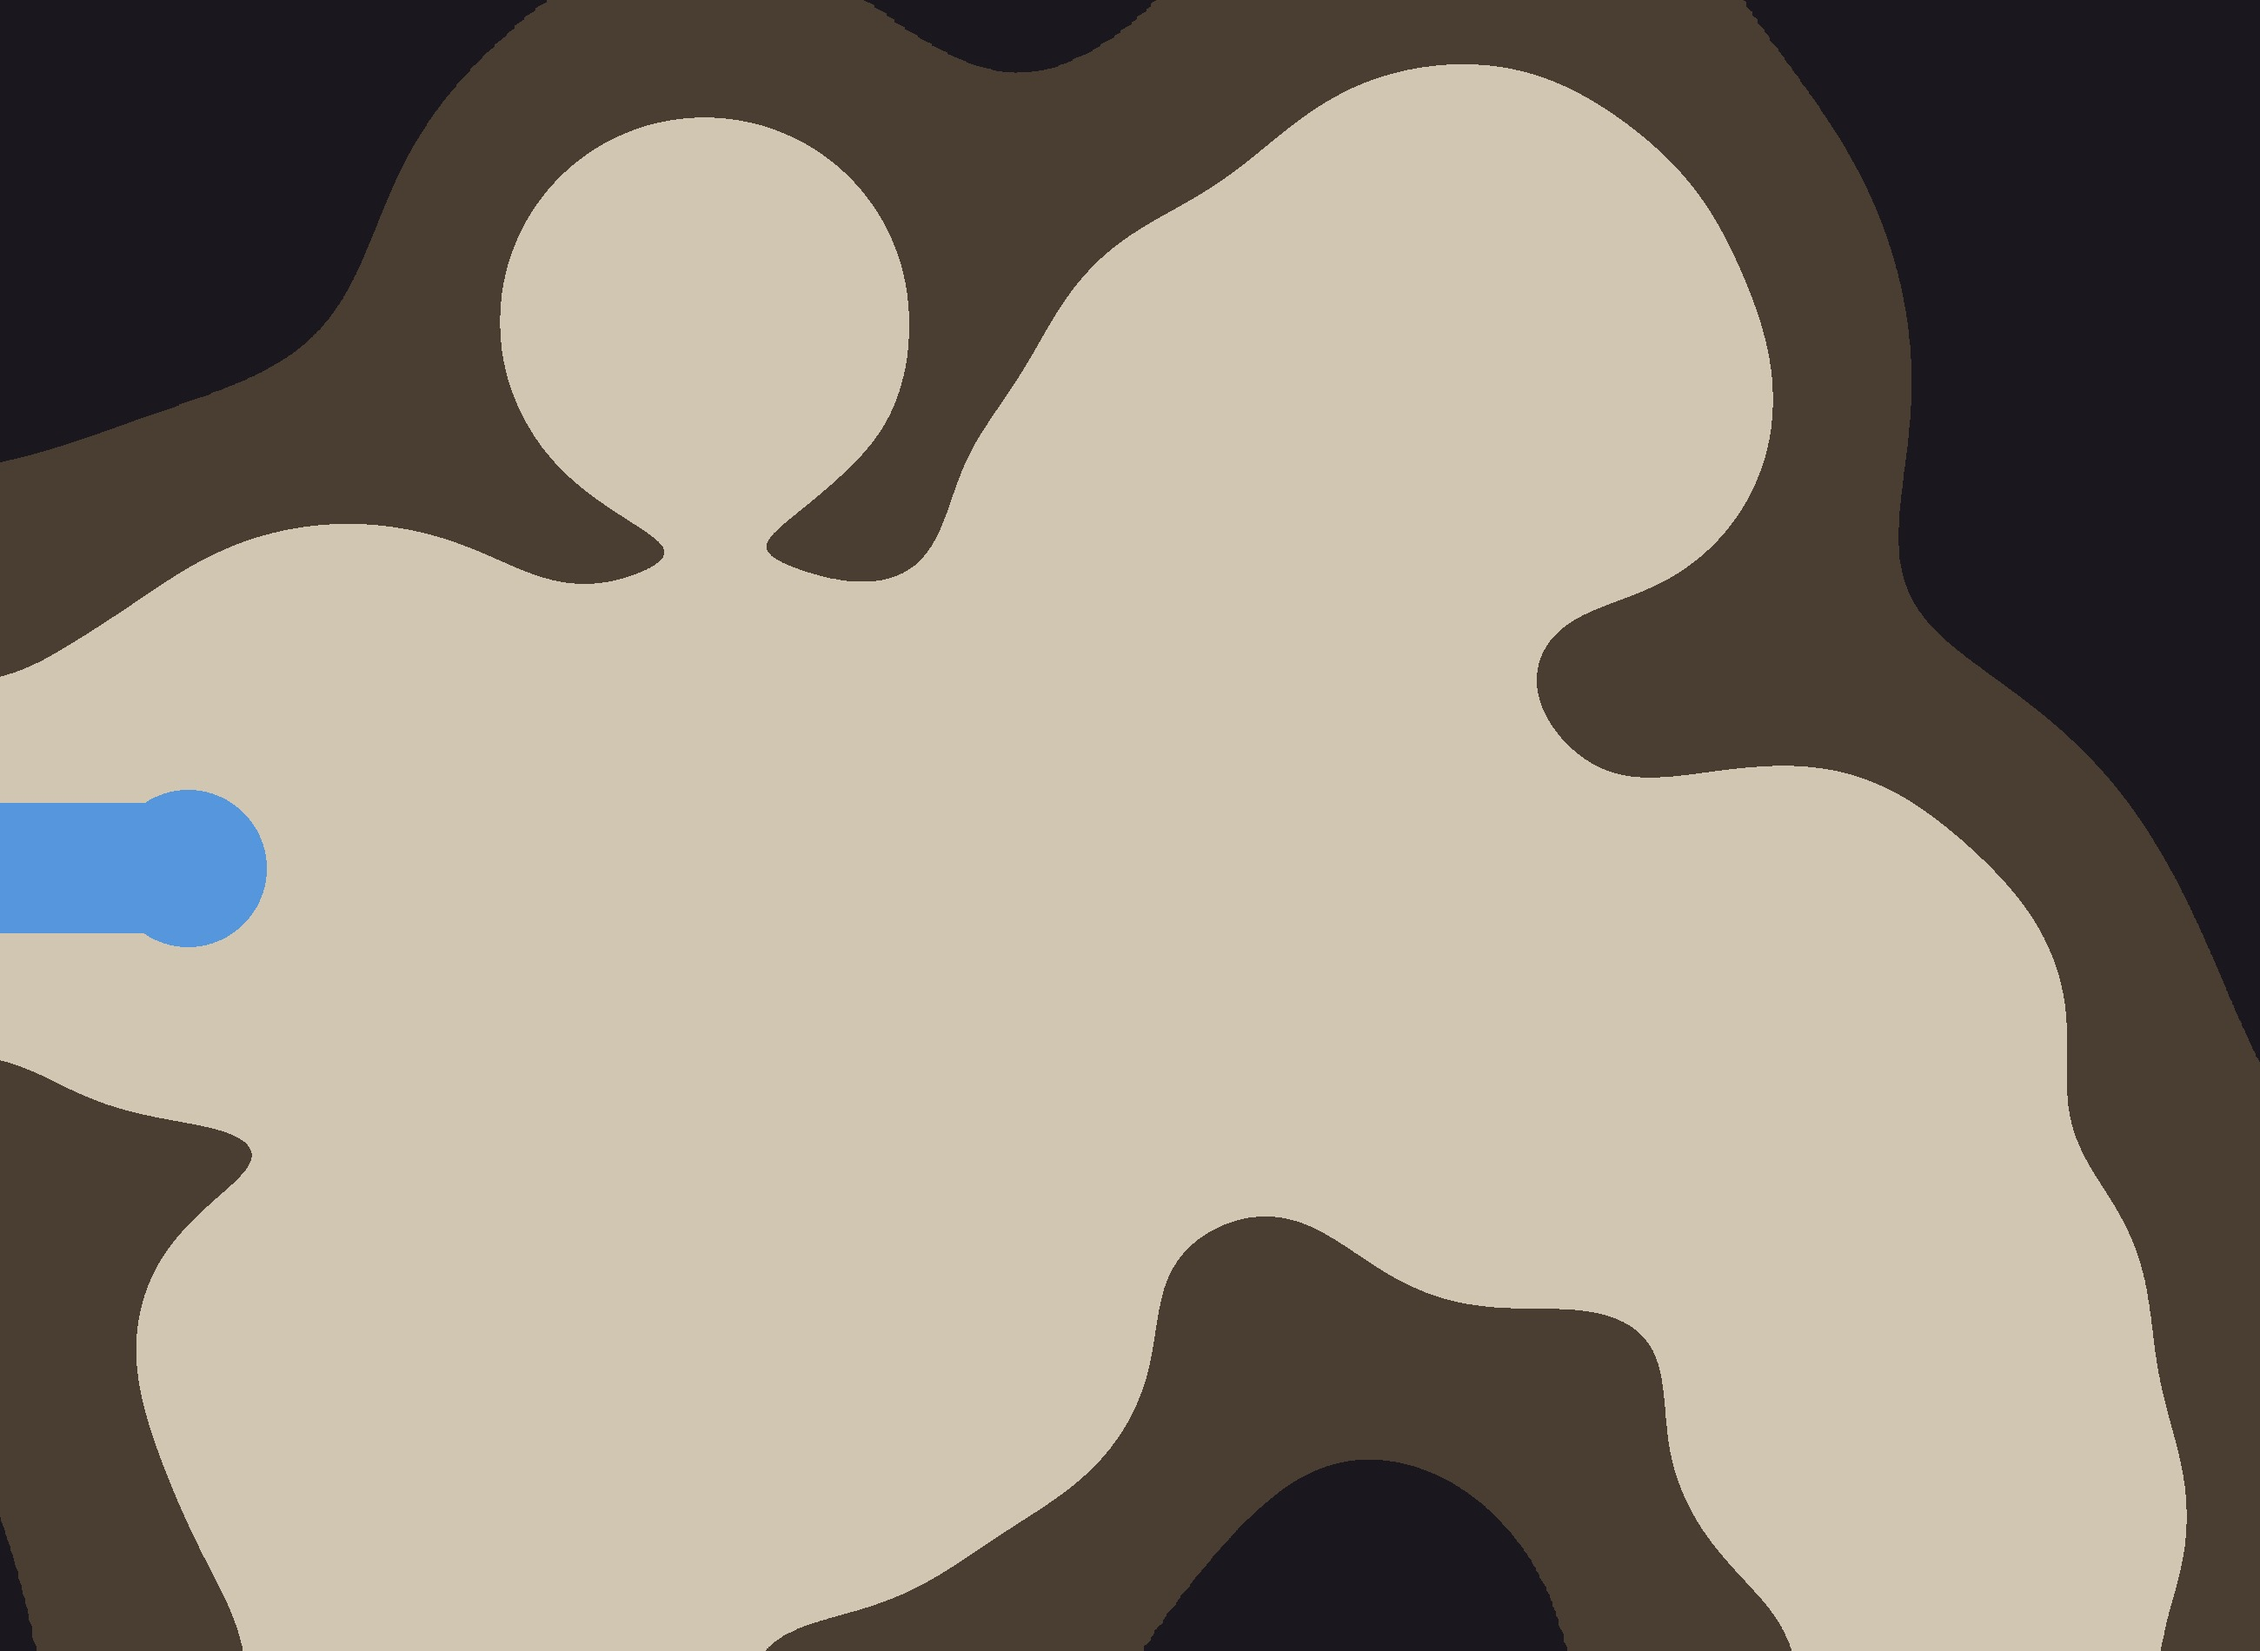
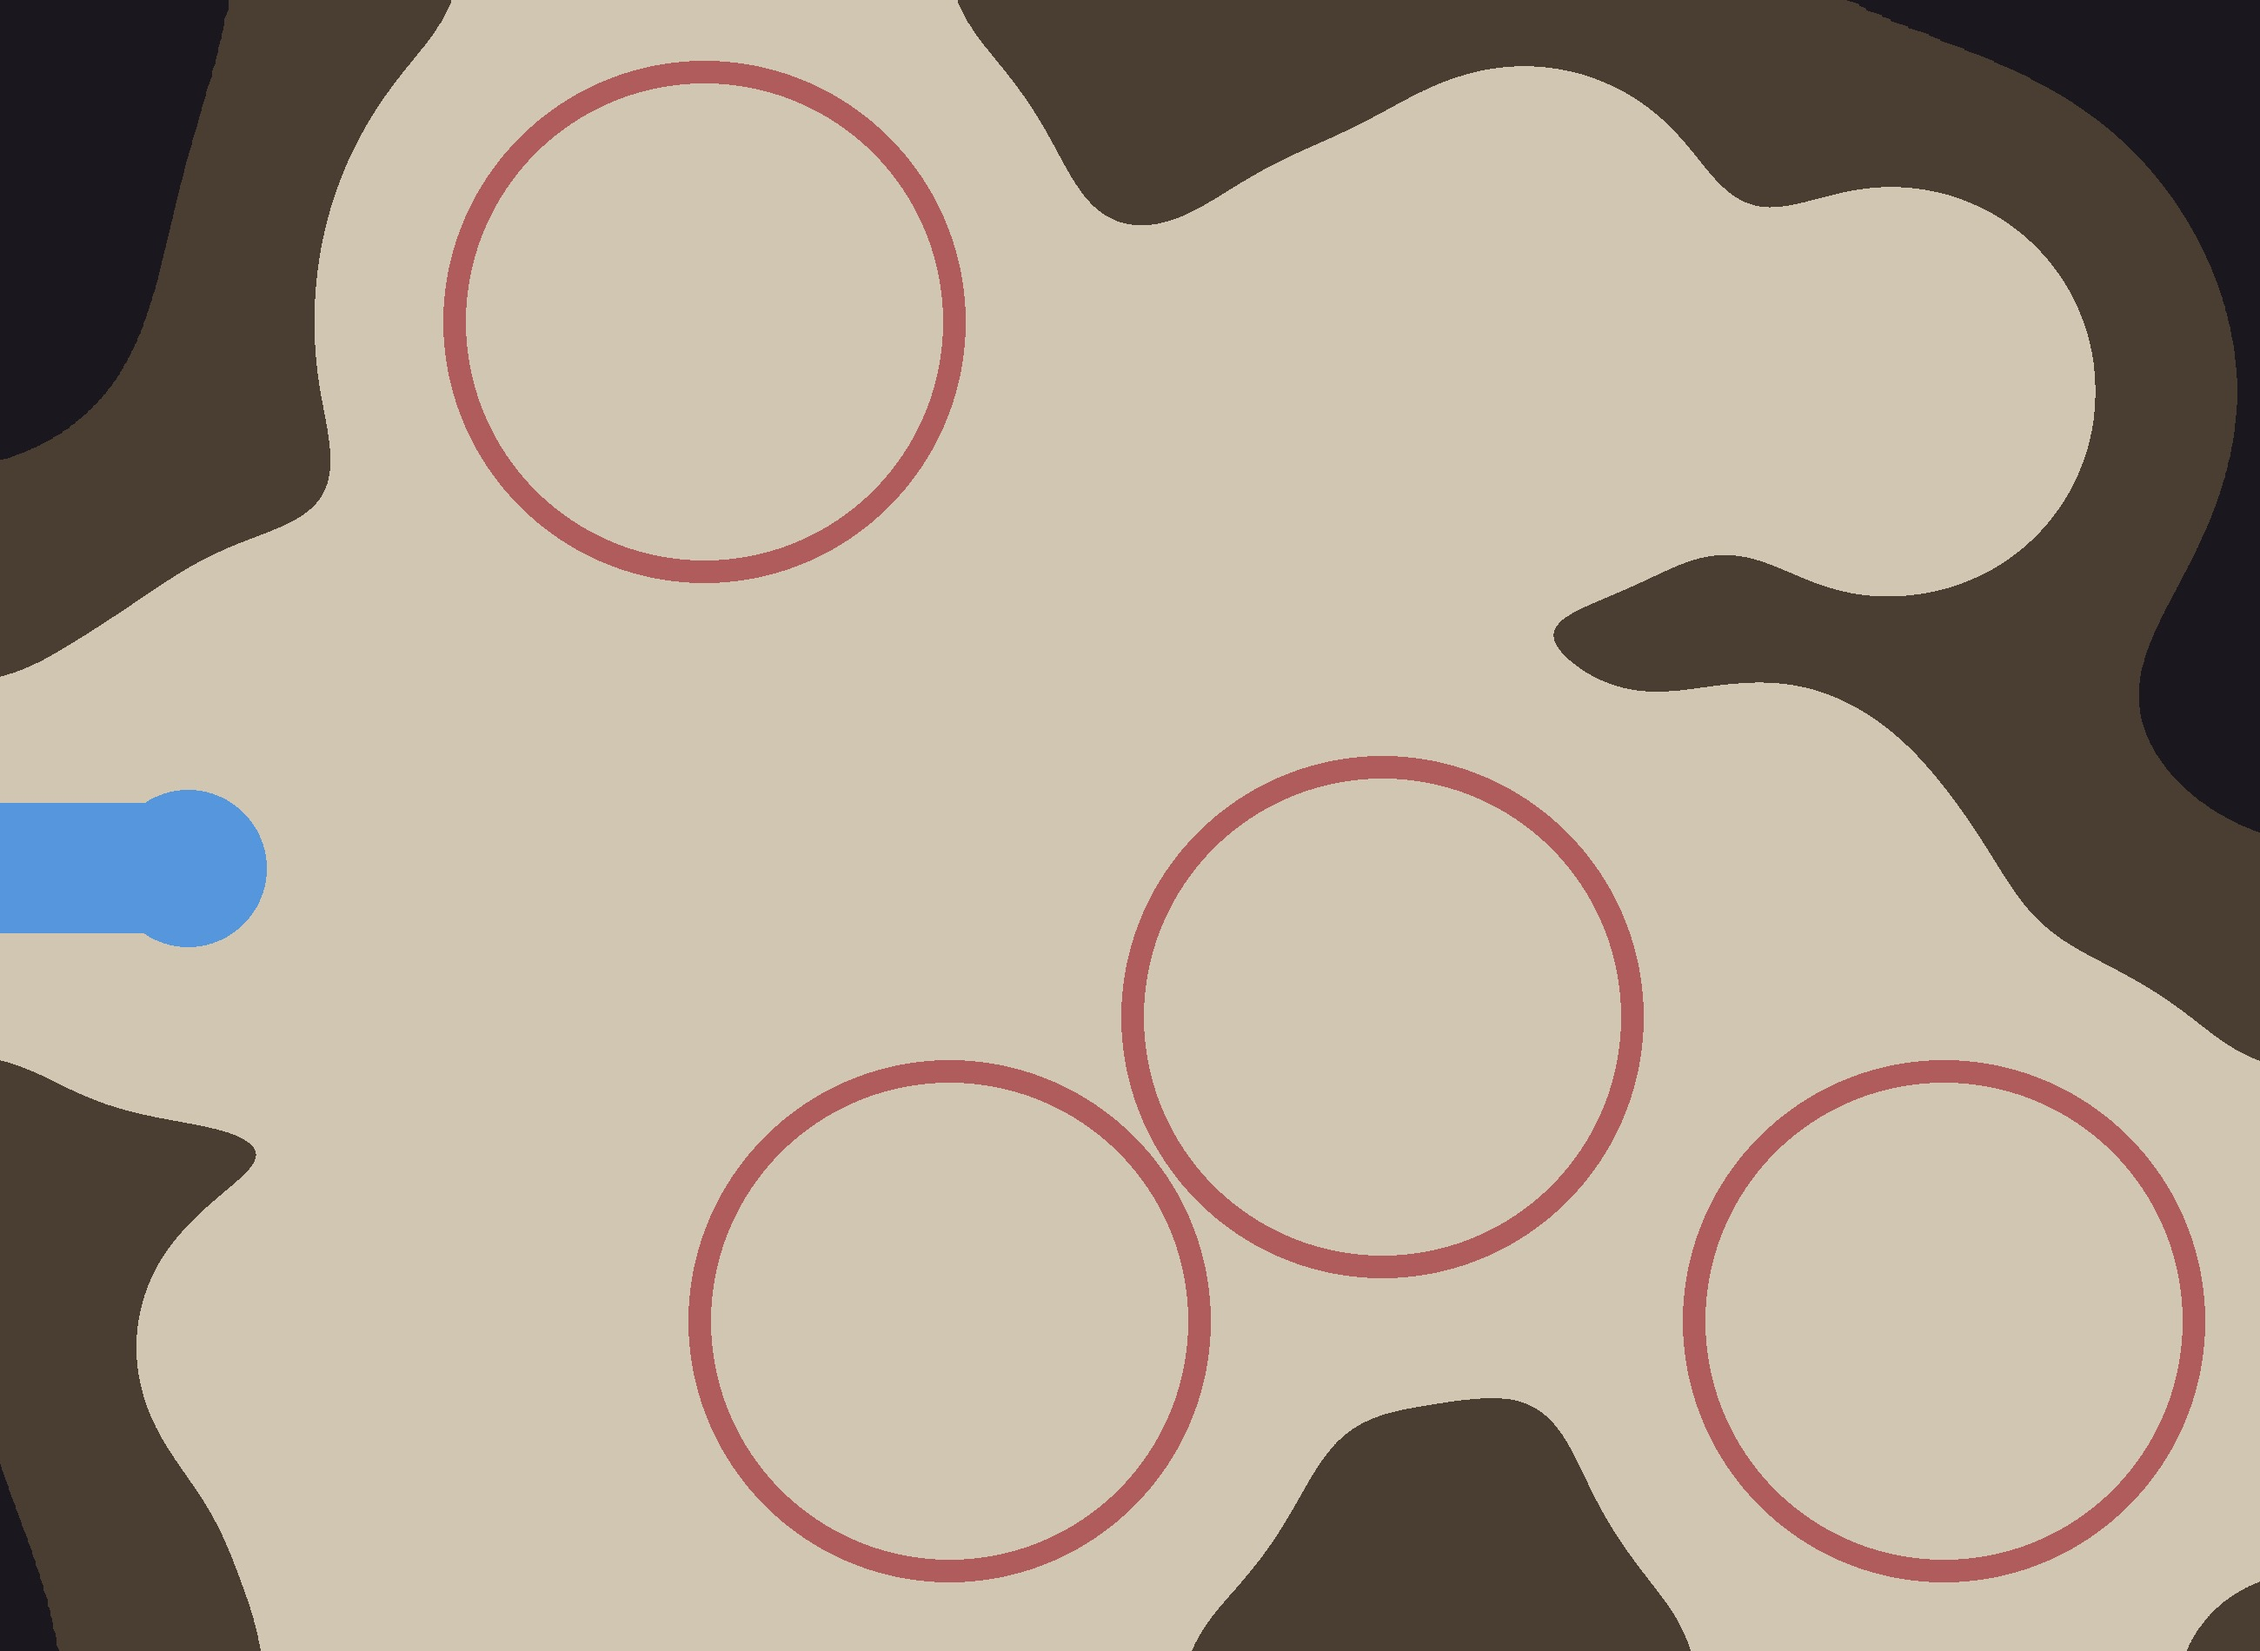
Quy trình meowa + prompt mẫu map 1 — và vá lỗi bản phác bỏ sót 29 trùm vùng
VÁ LỖI TÔI TỰ BÁO Ở COMMIT TRƯỚC.
tools/dump_layout.js chỉ đọc mảng `mobs`, mà TRÙM VÙNG KHÔNG NẰM TRONG ĐÓ — chúng
ở bảng riêng `BOSS_DEFS`, toạ độ khai theo TỈ LỆ khổ map chứ không phải pixel. Bỏ
sót 29 con (3 thủ vệ + 1 trấn ải mỗi map, cộng đấu trường chương I ở daohoa). Nên
bán kính 420px tôi đặt cho boss chưa từng được dùng, và 8 bản phác đầu tiên KHÔNG
chừa đấu trường nào.

Sửa xong, con số đổi hẳn — và nó lật luôn một luật tôi viết hôm qua:
  map          sàn cũ → sàn mới
  daohoa       76,0% → 88,5%      chungnam   68,9% → 82,1%
  ngoai        58,3% → 71,8%      comoc      76,4% → 85,9%
  tuyettinh    60,8% → 77,5%      mongco     72,4% → 83,1%
  nhanmon      70,7% → 83,3%      tuongduong 38,4% (thành, không có trùm)
Sàn bắt buộc trống của map hoang dã là 72–89%, không phải 58–76%. **Luật "≥60%"
trong §3.2 quá lỏng, nâng lên ≥75%.** Ngưỡng 55% trong test_sandat.js vẫn đúng vai
trò lưới chắn tối thiểu nên giữ nguyên.

BẢN PHÁC NAY XUẤT THÊM BẢN ĐỆM 4:3 (`phac_<map>_43.jpg`, 2600×1950). meowa và Nano
Banana chỉ nhận vài tỉ lệ cố định; gần khổ 2600×1900 (1,368) nhất là 4:3 (1,333).
Đưa ảnh tham chiếu 1,368 rồi đòi ra 1,333 là để model tự bóp — đệm sẵn thì bố cục
không lệch, sinh xong cắt 50px là khít.

§5b — QUY TRÌNH MEOWA, LỆNH THẬT, TRA TỪ meowart_api.py CHỨ KHÔNG ĐOÁN.
`nano-banana-run` phơi `--model` với `gemini-3-pro-image` — tức meowa chạy cảnh
lớn bằng CHÍNH Nano Banana Pro. Đi qua meowa không đổi model, chỉ đổi chỗ quản tài
[…]

diff --git a/tools/dump_layout.js b/tools/dump_layout.js
@@ -19,6 +19,18 @@ const { chromium } = require('playwright');
         npc: NPCS.filter(n=>n.map===key).map(n=>({x:n.x,y:n.y,name:n.name})),
         quai: mobs.map(m=>({x:Math.round(m.x),y:Math.round(m.y),boss:!!m.boss,elite:!!m.elite,ten:m.name||''})),
         canTro: (typeof MAP_OBSTACLES!=='undefined' && MAP_OBSTACLES[key]) ? MAP_OBSTACLES[key] : [],
+        // ⚠ Trùm vùng KHÔNG nằm trong `mobs` lúc buildWorld() — chúng ở bảng riêng BOSS_DEFS,
+        // và toạ độ khai theo TỈ LỆ khổ map, không phải pixel. Bản phác đầu tiên bỏ sót cả 32
+        // con vì chỉ đọc `mobs`, nên không chừa đấu trường nào.
+        boss: (function(){
+          const b = (window.BOSS_DEFS && window.BOSS_DEFS[key]) || {};
+          const ra = (b.thuve || []).concat(b.tranai ? [b.tranai] : []);
+          const o = ra.map(x => ({ x: Math.round(x.x * MAP.w), y: Math.round(x.y * MAP.h), ten: x.name, lv: x.lv }));
+          // daohoa còn một đấu trường cố định cho trận boss chương I (questIdx===9)
+          if (key === 'daohoa' && typeof BOSS_ARENA !== 'undefined')
+            o.push({ x: BOSS_ARENA.x, y: BOSS_ARENA.y, ten: 'Đấu trường chương I', lv: 10 });
+          return o;
+        })(),
       };
     }
     return res;

diff --git a/tools/phac_bocuc.py b/tools/phac_bocuc.py
@@ -43,7 +43,8 @@ def phac(md, out):
     size = (W, H)
 
     quai  = [(q['x'], q['y']) for q in md['quai'] if not q['boss']]
-    boss  = [(q['x'], q['y']) for q in md['quai'] if q['boss']]
+    # trùm vùng lấy từ khoá `boss` riêng — xem ghi chú trong tools/dump_layout.js
+    boss  = [(b['x'], b['y']) for b in md.get('boss', [])]
     npc   = [(n['x'], n['y']) for n in md['npc']]
     cong  = [(g['x'], g['y']) for g in md['cong']]
     tha   = [(md['spawn']['x'], md['spawn']['y'])] if md.get('spawn') else []
@@ -80,6 +81,14 @@ def phac(md, out):
         d.ellipse([x - 90, y - 90, x + 90, y + 90], fill=MAU['cong'])
 
     img.save(out, quality=92)
+
+    # Bản ĐỆM 4:3 — meowa/Nano Banana chỉ nhận vài tỉ lệ cố định, gần khổ 2600×1900 (1,368)
+    # nhất là 4:3 (1,333). Đưa ảnh tham chiếu 1,368 rồi đòi ra 1,333 thì bố cục bị bóp lệch,
+    # nên đệm sẵn: thêm nền ở trên và dưới cho đủ 2600×1950, sinh xong cắt lại 50px là khít.
+    k43 = Image.new('RGB', (W, round(W * 3 / 4)), MAU['ngoai'])
+    k43.paste(img, (0, (k43.height - H) // 2))
+    k43.save(out.replace('.jpg', '_43.jpg'), quality=92)
+
     return {
         'san_pct': round(100 * san.mean(), 1),
         'dat_pct': round(100 * dat.mean(), 1),
